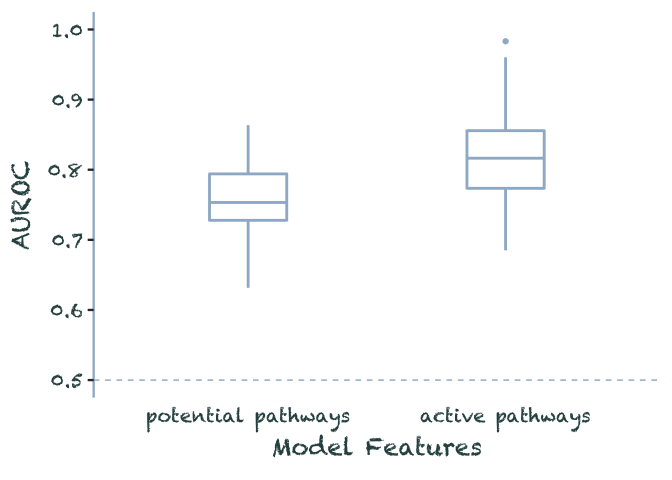
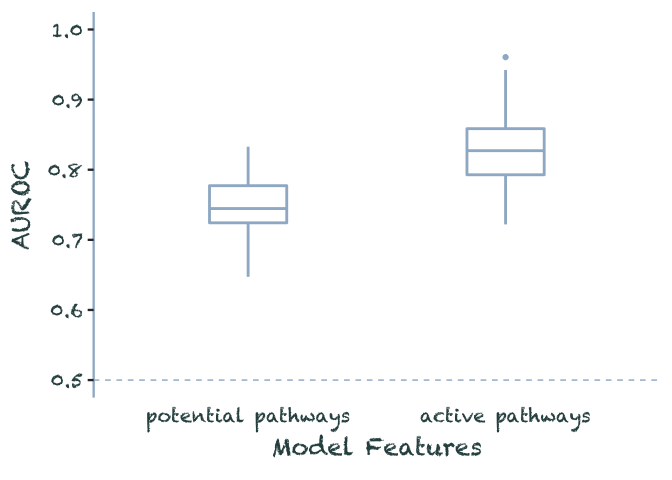
Tweak plots

diff --git a/README.md b/README.md
@@ -55,16 +55,6 @@ metadata %>%
 
 ``` r
 set.seed(2019)
-ml1 <- data.frame(OTUs = rnorm(100, .69, .07),
-                  pathways = rnorm(100, .79, .06),
-                  both = rnorm(100, .82, .05)) %>% 
-    pivot_longer(everything(), names_to = "model", values_to = 'auroc') %>% 
-    filter(auroc < 1) %>% 
-    mutate(model = as_factor(model) %>% 
-             recode(both = 'OTUs + pathways'))
-```
-
-``` r
 plot_auroc <- function(mldata) {
   mldata %>% ggplot(aes(model, auroc)) +
     geom_boxplot(color = "slategray3", width = 0.3, lwd = 1, fatten = 1) +
@@ -81,21 +71,31 @@ plot_auroc <- function(mldata) {
           text = element_text(color = 'darkslategray'),
           axis.text = element_text(color = 'darkslategray'))
 }
+```
 
-ml1 %>% plot_auroc()
+``` r
+
+data.frame(OTUs = rnorm(100, .69, .04),
+                  pathways = rnorm(100, .79, .04),
+                  both = rnorm(100, .82, .04)) %>% 
+    pivot_longer(everything(), names_to = "model", values_to = 'auroc') %>% 
+    filter(auroc < 1) %>% 
+    mutate(model = as_factor(model) %>% 
+             recode(both = 'OTUs + pathways')) %>% 
+  plot_auroc()
 ```
 
 ![](figures/auroc_tax-1.png)<!-- -->
 
 ``` r
-ml2 <- data.frame(potential_pathways = rnorm(100, .76, .05),
-                  active_pathways = rnorm(100, .82, .05)) %>% 
+data.frame(potential_pathways = rnorm(100, .75, .04),
+                  active_pathways = rnorm(100, .83, .04)) %>% 
   pivot_longer(everything(), names_to = "model", values_to = 'auroc') %>%
   filter(auroc < 1) %>% 
   mutate(model = as_factor(model) %>% 
            recode(potential_pathways = 'potential pathways',
-                  active_pathways = 'active pathways'))
-ml2 %>% plot_auroc()
+                  active_pathways = 'active pathways')) %>% 
+  plot_auroc()
 ```
 
 ![](figures/auroc_metab-1.png)<!-- -->
